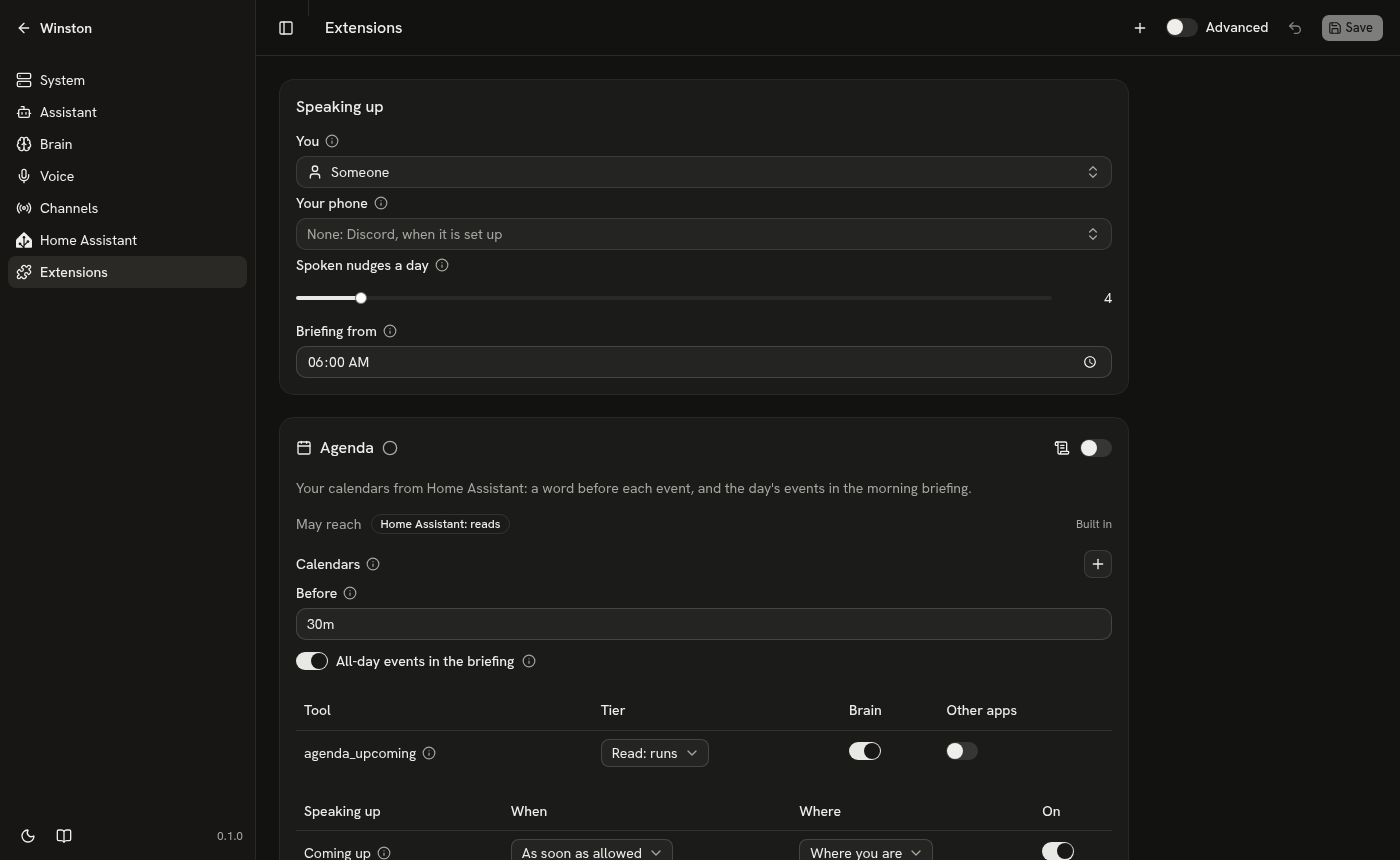
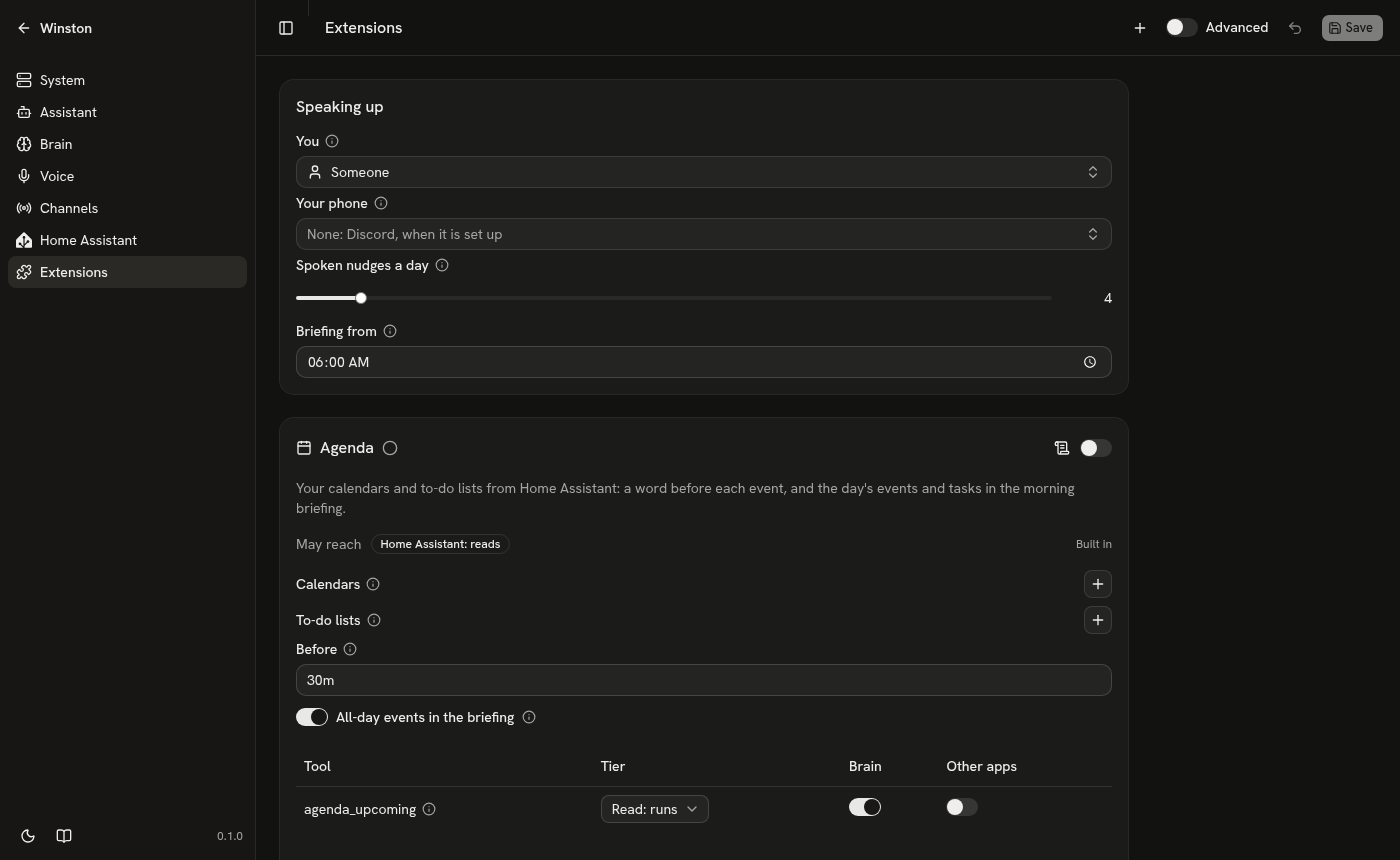
Agenda reads to-do lists: tasks with a due date, like events
Google Tasks are not in the Calendar API, though Google Calendar shows
them, so a task repeating every other day was never seen. Agenda now
reads the to-do lists picked on its card (todo.get_items, any list Home
Assistant has): an open task with a due date is read like an event at
its due time, one due on a day only like an all-day event, and one
overdue stays until it is ticked off. agenda_upcoming names them as
tasks, and the briefing includes those due today or overdue.

The Extensions screenshots are retaken for the new setting.

diff --git a/src/winston/extensions/agenda.py b/src/winston/extensions/agenda.py
@@ -2,20 +2,23 @@
 # [tool.winston]
 # id = "agenda"
 # name = "Agenda"
-# description = "Your calendars from Home Assistant: a word before each event, and the day's events in the morning briefing."
+# description = "Your calendars and to-do lists from Home Assistant: a word before each event, and the day's events and tasks in the morning briefing."
 # icon = "calendar"
 # api = 1
 # permissions = { home_assistant = "read" }
 # ///
 """Agenda: the calendars Home Assistant has (Google Calendar, CalDAV, a local one), read through its
-`calendar.get_events`, so Home Assistant handles accounts and repeating events.
+`calendar.get_events`, so Home Assistant handles accounts and repeating events, and the open tasks
+with a due date in its to-do lists (Google Tasks, a local list), through `todo.get_items`. A task is
+read like an event at its due time; one due on a day only is like an all-day event, and one overdue
+stays until it is done.
 
 Every 10 minutes it keeps the events from the start of today to 36 hours ahead. Two kinds:
 
 - "soon": each timed event, held until `before` its start and checked again then, so a moved or
   cancelled event is never said. Asked for (you put it in your calendar), so it comes through quiet
   hours and the daily limit.
-- "today": the day's events, for the morning briefing."""
+- "today": the day's events, and the tasks due today or overdue, for the morning briefing."""
 from __future__ import annotations
 
 from datetime import date, datetime, time, timedelta
@@ -29,6 +32,9 @@ AHEAD = timedelta(hours=36)
 class AgendaSettings(Settings):
     calendars: list[str] = Entity(domain="calendar", default=[],
                                   description="The calendars he reads. Picking one lets him read it, exposed or not.")
+    lists: list[str] = Entity(domain="todo", default=[], title="To-do lists",
+                              description="Lists whose open tasks with a due date he reads, like events at their "
+                                          "due time; due today or overdue, in the briefing.")
     before: timedelta = Duration("30m", description="How long before an event he mentions it.")
     all_day: bool = Field(True, title="All-day events in the briefing",
                           description="Name all-day events (birthdays, holidays) in the morning briefing.")
@@ -49,29 +55,45 @@ def _parse(value: str, zone) -> tuple[datetime, bool]:
     return (at if at.tzinfo else at.replace(tzinfo=zone)), False
 
 
-def _when(at: datetime, all_day: bool, now: datetime) -> str:
-    """"today 14:00", "tomorrow, all day", "Friday 16 October 09:30"."""
+def _when(at: datetime, all_day: bool, now: datetime, task: bool = False) -> str:
+    """"today 14:00", "tomorrow, all day", "Friday 16 October 09:30"; a task "today", "overdue since ..."."""
     day = "today" if at.date() == now.date() else "tomorrow" if at.date() == now.date() + timedelta(1) \
         else f"{at:%A} {at.day} {at:%B}"
-    return f"{day}, all day" if all_day else f"{day} {at:%H:%M}"
+    if task and at.date() < now.date():
+        return f"overdue since {day}"
+    return (day if task else f"{day}, all day") if all_day else f"{day} {at:%H:%M}"
+
+
+def _named(e: dict) -> dict:
+    return {"task" if e.get("task") else "event": e["summary"]}
 
 
 async def _events(ctx, start: datetime, end: datetime) -> list[dict]:
-    """Every picked calendar's events between start and end, soonest first."""
-    cals = ctx.settings.calendars
-    if not cals:
-        return []
-    answer = await ctx.ha.query("calendar", "get_events", target={"entity_id": cals},
-                                data={"start_date_time": start.isoformat(), "end_date_time": end.isoformat()})
-    zone = ctx.now().tzinfo
+    """Every picked calendar's events between start and end, and every picked list's open tasks due
+    before end (overdue ones too), soonest first."""
+    s, zone = ctx.settings, ctx.now().tzinfo
     out = []
-    for cal, found in (answer or {}).items():
-        for e in (found or {}).get("events") or []:
-            if not e.get("start") or not e.get("summary"):
-                continue
-            at, all_day = _parse(e["start"], zone)
-            out.append({"calendar": cal, "summary": e["summary"][:200], "start": at.isoformat(), "all_day": all_day,
-                        "location": (e.get("location") or "")[:200]})
+    if s.calendars:
+        answer = await ctx.ha.query("calendar", "get_events", target={"entity_id": s.calendars},
+                                    data={"start_date_time": start.isoformat(), "end_date_time": end.isoformat()})
+        for cal, found in (answer or {}).items():
+            for e in (found or {}).get("events") or []:
+                if not e.get("start") or not e.get("summary"):
+                    continue
+                at, all_day = _parse(e["start"], zone)
+                out.append({"calendar": cal, "summary": e["summary"][:200], "start": at.isoformat(),
+                            "all_day": all_day, "location": (e.get("location") or "")[:200]})
+    if s.lists:
+        answer = await ctx.ha.query("todo", "get_items", target={"entity_id": s.lists},
+                                    data={"status": ["needs_action"]})
+        for lst, found in (answer or {}).items():
+            for t in (found or {}).get("items") or []:
+                if not t.get("due") or not t.get("summary"):
+                    continue
+                at, all_day = _parse(t["due"], zone)
+                if at < end:
+                    out.append({"calendar": lst, "summary": t["summary"][:200], "start": at.isoformat(),
+                                "all_day": all_day, "location": "", "task": True})
     return sorted(out, key=lambda e: e["start"])
 
 
@@ -101,11 +123,12 @@ async def soon(ctx):
         if e["all_day"] or at <= now:
             continue
         minutes = max(1, round((at - now).total_seconds() / 60))
-        facts = {"event": e["summary"], "starts": _when(at, False, now), "in_minutes": minutes}
+        facts = {**_named(e), "starts": _when(at, False, now), "in_minutes": minutes}
         if e["location"]:
             facts["location"] = e["location"]
         out.append(Nudge(about=f"{e['calendar']}|{e['summary']}|{e['start']}",
-                         say=f"{e['summary']} starts in {minutes} minutes.", facts=facts,
+                         say=f"{e['summary']} {'is due' if e.get('task') else 'starts'} in {minutes} minutes.",
+                         facts=facts,
                          not_before=at - ctx.settings.before, expires=at))
     return out
 
@@ -113,44 +136,54 @@ async def soon(ctx):
 @ext.nudge("today", title="Today's events", deliver="briefing", outside=True)
 async def today(ctx):
     now = ctx.now()
-    events = [{"event": e["summary"], "when": "all day" if e["all_day"] else f"{at:%H:%M}",
-               **({"location": e["location"]} if e["location"] else {})}
-              for e, at in _kept(ctx)
-              if at.date() == now.date() and (e["all_day"] and ctx.settings.all_day or not e["all_day"] and at > now)]
-    if not events:
+    rows, heads = [], []
+    for e, at in _kept(ctx):
+        if e.get("task"):
+            if at.date() > now.date():                  # due later; one overdue stays until it is done
+                continue
+            when = _when(at, e["all_day"], now, task=True)
+            heads.append(f"{e['summary']}, {when}" if when.startswith("overdue") else e["summary"])
+        elif at.date() == now.date() and (ctx.settings.all_day if e["all_day"] else at > now):
+            when = "all day" if e["all_day"] else f"{at:%H:%M}"
+            heads.append(e["summary"] if e["all_day"] else f"{e['summary']} at {when}")
+        else:
+            continue
+        rows.append({**_named(e), "when": when, **({"location": e["location"]} if e["location"] else {})})
+    if not rows:
         return None
-    heads = [f"{e['event']} at {e['when']}" if e["when"] != "all day" else e["event"] for e in events[:4]]
-    return Nudge(about=f"today:{now.date().isoformat()}", say=f"On your calendar today: {'; '.join(heads)}."[:299],
-                 facts={"events": events})
+    return Nudge(about=f"today:{now.date().isoformat()}", say=f"On your calendar today: {'; '.join(heads[:4])}."[:299],
+                 facts={"events": rows})
 
 
 @ext.tool(tier="read")
 async def upcoming(ctx, days: int = 1) -> list[dict] | str:
-    """The user's calendar: events from the start of today for this many days, soonest first.
+    """The user's calendar and to-do lists: events from the start of today for this many days, and
+    tasks due by then or overdue, soonest first.
 
     Args:
         days: 1 for today, 2 for today and tomorrow, 7 for the week; at most 31.
     """
-    if not ctx.settings.calendars:
-        return "No calendar is picked on the Agenda card."
+    if not ctx.settings.calendars and not ctx.settings.lists:
+        return "No calendar or to-do list is picked on the Agenda card."
     now = ctx.now()
     start = _start_of(now.date(), now.tzinfo)
     found = await _events(ctx, start, start + timedelta(days=max(1, min(days, 31))))
     out = []
     for e in found:
         at = datetime.fromisoformat(e["start"]).astimezone(now.tzinfo)
-        out.append({"event": e["summary"], "when": _when(at, e["all_day"], now),
+        out.append({**_named(e), "when": _when(at, e["all_day"], now, e.get("task", False)),
                     **({"location": e["location"]} if e["location"] else {}),
-                    **({"past": True} if not e["all_day"] and at < now else {})})
+                    **({"past": True} if not e.get("task") and not e["all_day"] and at < now else {})})
     return out or "Nothing on the calendar."
 
 
 @ext.status
 async def status(ctx) -> str:
-    if not ctx.settings.calendars:
+    s = ctx.settings
+    if not s.calendars and not s.lists:
         return "No calendar picked"
     now = ctx.now()
     nxt = next(((e, at) for e, at in _kept(ctx) if not e["all_day"] and at > now), None)
-    n = len(ctx.settings.calendars)
-    head = f"{n} calendar{'s' if n > 1 else ''}"
+    head = ", ".join(f"{n} {word}{'s' if n > 1 else ''}"
+                     for n, word in ((len(s.calendars), "calendar"), (len(s.lists), "list")) if n)
     return f"{head}; next: {nxt[0]['summary']} {_when(nxt[1], False, now)}" if nxt else f"{head}; nothing in the next day"

diff --git a/src/winston/extensions/agenda_test.py b/src/winston/extensions/agenda_test.py
@@ -1,4 +1,4 @@
-"""Tests for Agenda: `winston ext test agenda`. Made-up events on the fake Home Assistant."""
+"""Tests for Agenda: `winston ext test agenda`. Made-up events and tasks on the fake Home Assistant."""
 from pathlib import Path
 
 from winston_sdk.testing import FakeClock, FakeHA, Harness
@@ -11,6 +11,14 @@ EVENTS = {"calendar.work": [
     {"start": "2026-10-12", "end": "2026-10-13", "summary": "Name day"},
     {"start": "2026-10-13T09:00:00+02:00", "end": "2026-10-13T10:00:00+02:00", "summary": "Standup"},
 ]}
+TASKS = {"todo.tasks": [
+    {"uid": "1", "summary": "Take the pill", "status": "needs_action", "due": "2026-10-12"},
+    {"uid": "2", "summary": "Return the parcel", "status": "needs_action", "due": "2026-10-10"},
+    {"uid": "3", "summary": "Pay the rent", "status": "needs_action", "due": "2026-10-12T11:00:00+02:00"},
+    {"uid": "4", "summary": "Book flights", "status": "needs_action", "due": "2026-10-15"},
+    {"uid": "5", "summary": "Someday, maybe", "status": "needs_action"},
+    {"uid": "6", "summary": "Water the plants", "status": "completed", "due": "2026-10-12"},
+]}
 
 
 def ha(events=EVENTS) -> FakeHA:
@@ -18,7 +26,12 @@ def ha(events=EVENTS) -> FakeHA:
         return {cal: {"events": [e for e in events.get(cal, [])
                                  if data["start_date_time"][:10] <= e["start"][:10] and e["start"] < data["end_date_time"]]}
                 for cal in target["entity_id"]}
-    return FakeHA(states={"calendar.work": "off"}, services={"calendar.get_events": get_events})
+
+    def get_items(data, target):
+        return {lst: {"items": [t for t in TASKS.get(lst, []) if t["status"] in data.get("status", [t["status"]])]}
+                for lst in target["entity_id"]}
+    return FakeHA(states={"calendar.work": "off", "todo.tasks": "5"},
+                  services={"calendar.get_events": get_events, "todo.get_items": get_items})
 
 
 def harness(at="2026-10-12T07:00:00", **settings) -> Harness:
@@ -96,4 +109,28 @@ async def test_nothing_picked():
     assert await h.check("soon") == [] and await h.check("today") == []
     assert "No calendar" in await h.tool("upcoming")
     assert await h.status() == "No calendar picked"
+    await h.close()
+
+
+async def test_tasks_with_a_due_date_are_read_like_events():
+    h = harness(lists=["todo.tasks"])
+    await h.run("read")
+    [n] = await h.check("today")
+    assert [e.get("event") or e.get("task") for e in n.facts["events"]] == \
+        ["Return the parcel", "Name day", "Take the pill", "Dentist", "Pay the rent", "Call with the bank"], n.facts
+    assert {"task": "Return the parcel", "when": "overdue since Saturday 10 October"} in n.facts["events"]
+    assert "Return the parcel, overdue since" in n.say and "Take the pill" in n.say, n.say
+    rent = next(x for x in await h.check("soon") if x.facts.get("task") == "Pay the rent")
+    assert rent.not_before.isoformat() == "2026-10-12T10:30:00+02:00" and "is due in" in rent.say, rent
+    week = await h.tool("upcoming", days=7)
+    assert {"task": "Book flights", "when": "Thursday 15 October"} in week, week
+    assert {"task": "Take the pill", "when": "today"} in week
+    assert not any("Someday" in str(r) or "plants" in str(r) for r in week), week   # no date; done
+    assert await h.status() == "1 calendar, 1 list; next: Dentist today 10:00"
+    await h.close()
+
+
+async def test_a_list_alone_is_enough():
+    h = harness(calendars=[], lists=["todo.tasks"])
+    assert [r["task"] for r in await h.tool("upcoming")] == ["Return the parcel", "Take the pill", "Pay the rent"]
     await h.close()

diff --git a/docs/plan.md b/docs/plan.md
@@ -320,7 +320,7 @@ Not in this track: Discord, which is a channel; the channel contract gets design
 - **Status 2026-10-01: Spotify, a fourth built-in, asked for during step 4** ([built-in extensions](built-in-extensions.md#spotify)). go-librespot 0.10.2 as a Spotify Connect receiver, its audio paced by a relay and played on the box through a new permission, `speakers` (`ctx.speakers`, the satellite's media player, 48 kHz FLAC), with tests (11). On the real box: Daft Punk played through the jack; a pause in the app now stops the box at once (it took 4 s, see decisions). Found on the way and fixed for every channel: a conversation keeps the extension tools it started with, so a channel starts a new one when they change (the box could not find `spotify_play`); the browser's "Winston online." is no longer put into the conversation; an extension's keys are read from `data/.env` when it starts. Next: speech-to-text hints from his library ("play some Daft Punk" was heard as "Dunk"); hear a pause, a resume and a skip on the box and time them; ask Aldin whether a follow-up (no wake word) should ignore Swedish, since the box answered household Swedish after a reply.
 - **Status 2026-10-11: Awareness, a fifth built-in** ([built-in extensions](built-in-extensions.md#awareness)). One nudge kind, "goodnight": after a busy day and 30+ minutes of evening silence, Winston says goodnight. No tools, no settings, reads the day's turns from winstond's API. Tests (4) beside it. Not yet checked: on the real box after a real evening.
 - **Status 2026-10-11: Agenda and Later, two more built-ins; News learns topics; a song can be queued** ([built-in extensions](built-in-extensions.md)). Agenda: Home Assistant's calendars (`calendar.get_events`), "Coming up" 30 minutes before each event (held until then and checked again, so a moved or cancelled one is never said), "Today's events" in the briefing, `agenda_upcoming`; 7 tests. Later: an action asked for now and run on a trigger (a time, leaving or arriving, an entity's state) by the exact tool call the brain chose, told when done or not; 6 tests. Both need two additions to the standard, each for any extension: the `tools` permission (`ctx.tools.list`, `ctx.tools.call`: the brain's own tools by its names and tiers, never a restricted one, every call in the tool-call log) and the diary through `memory` (`ctx.memory.diary`). News: a Music preset (off) and up to eight topics a day from memory, the diary and the artists in the picked music library; 17 tests. Spotify: `spotify_queue`; 14 tests. `tests/extensions_cases.py` passes with a new fixture that lists the brain's tools with their tiers, runs a Home Assistant tool through its MCP server and another extension's tool, is refused a restricted and an unknown one, finds its calls in the tool-call log, and reads the diary; `sdk/tests/sdk_cases.py` passes. `tests/extensions_brain.py` passes with the 27B (thinking off, the spoken prompt) on the fake Home Assistant, which now has a calendar: "what's on my calendar today?" and "and tomorrow?" call `agenda_upcoming` with 1 and 2 days and name only that day's events; "turn off the main room lights when I leave" calls `later_add` with `intent__HassTurnOff`, `{"name": "Main room lights"}` and `on: leave`, does nothing yet, and leaving turns them off through the MCP server. On the running instance: winstond restarted, Agenda, Later and Awareness switched on, and News learned six topics on its first run. Not yet: Google Calendar in Home Assistant (Agenda has no calendar to read), any of it by voice on the box, and `spotify_queue` with the brain (it would queue on the real player).
-- **Status 2026-10-16: Agenda reads Google Calendar.** Home Assistant's Google Calendar integration is set up (a published Google Cloud app, Calendar API on); six calendars picked on the Agenda card, week numbers left out; `agenda_upcoming` over 31 days names the coming holidays, and an empty week says so. Found on the way: an extension's `ha.query` refused `calendar.get_events` as "can change things" for up to ten minutes after the integration was added, since winstond's cached service listing had no calendar domain; fixed (a missing service reads the listing again), with a check in `tests/extensions_cases.py` that fails without the fix. It reaches the running instance at the next winstond restart. Not yet: "Coming up" said before a real event, and "Today's events" in a real briefing.
+- **Status 2026-10-16: Agenda reads Google Calendar.** Home Assistant's Google Calendar integration is set up (a published Google Cloud app, Calendar API on); six calendars picked on the Agenda card, week numbers left out; `agenda_upcoming` over 31 days names the coming holidays, and an empty week says so. Found on the way: an extension's `ha.query` refused `calendar.get_events` as "can change things" for up to ten minutes after the integration was added, since winstond's cached service listing had no calendar domain; fixed (a missing service reads the listing again), with a check in `tests/extensions_cases.py` that fails without the fix. It reaches the running instance at the next winstond restart. Agenda also reads to-do lists (`todo.get_items`): open tasks with a due date, read like events at their due time, a day-only one like an all-day event, an overdue one until it is ticked off; `agenda_upcoming` names them as tasks; 9 tests (2 new); the Extensions screenshots retaken. Google Tasks is connected in Home Assistant too, two lists picked; a task due today is named by `agenda_upcoming` and in the briefing kind's check. Not yet: "Coming up" said before a real event, and "Today's events" in a real briefing.
 - **Status 2026-10-12: web search, Ask Claude and watched sensors moved from the core onto the standard** ([built-in extensions](built-in-extensions.md)). Three built-ins: `web` (`web_search`, now Gemini's REST API through `ctx.http`, so `google-genai` left Winston's dependencies), `claude` (`claude_ask`, with the Claude Agent SDK in its own environment, so `claude-agent-sdk` left them too) and `sensors` (`sensors_get_readings`). The Tools page is gone (Memory's settings are on Assistant), and nothing in the core knows them by name. One addition to the SDK, `filler_after`, so "Let me look that up." is said as a search starts (an extension's filler waited a second); the box now gets it too. Config version 2 moves a `tools` section onto them. Tests beside each (web 4, claude 4, sensors 3). Typed through the brain on the real engines: `web_search` 1.3 s, `claude_ask` 4.4 s (0.04 USD, on the Claude Code login), `sensors_get_readings` 34 ms; the hop to an extension's process measured 2 to 4 ms. Extension tools now show on Talk and Turns with their extension's icon and name. Not checked: the filler by voice.
 - **Status 2026-10-16: a mix for a mood, from ListenBrainz** ([built-in extensions](built-in-extensions.md#spotify)). `spotify_mix`: the brain passes three to six of his artists that fit the mood, two of them (not the last ones used) seed LB Radio in easy mode, and each song is found on Spotify by title and artist, played and queued. Before: the brain played radio from one artist, and one artist started 6 of 22 radio plays in the tool-call log. Measured on the real services with two artists from his library: 22 of 25 songs found on Spotify in 1.2 s (LB 0.7 s, the searches 0.5 s at once); two misspelled artists first in line were skipped and the next two used (4.8 s, three LB calls). 15 tests. On the box by voice: "something chill" called `spotify_mix` with five of his artists, and 15 songs played and queued 1.5 s later; Aldin, "seems to work great". Then "drum and bass" went to `spotify_play` as a name and played a song called "Drum and Bass Father"; a mix now takes a genre as MusicBrainz's tag (easy mode, no similar tags): 19 of 25 found on Spotify, nearly all drum and bass, where medium mode's release tags were half other styles.
 - **Next (added 2026-10-16): Weather, a built-in for forecasts.** Today only current conditions are answered, by Home Assistant's "Check the weather" tool on the exposed weather entity; "tomorrow" or "this afternoon" falls back to web search. The extension calls `weather.get_forecasts` (hourly and daily) with `home_assistant = "read"`, which the standard already allows, so it needs no core code. **Accept:** "will it rain tomorrow?" and "what's it like this afternoon?" are answered from Home Assistant without a search, in checks against the fake Home Assistant and on the box.

diff --git a/docs/built-in-extensions.md b/docs/built-in-extensions.md
@@ -6,7 +6,7 @@ you switch them on, on the Extensions page or with `winston ext enable ID`.
 
 | Extension | Speaks up | His tools | Reaches |
 | --- | --- | --- | --- |
-| **Agenda** (`agenda`) | "Coming up": 30 minutes before each event; "Today's events" in the briefing | `agenda_upcoming` | Home Assistant (read: the calendars you pick) |
+| **Agenda** (`agenda`) | "Coming up": 30 minutes before each event or task with a due time; "Today's events" in the briefing | `agenda_upcoming` | Home Assistant (read: the calendars and to-do lists you pick) |
 | **Ask Claude** (`claude`) | Nothing | `claude_ask` | Claude (api.anthropic.com), through the Claude Code CLI |
 | **Awareness** (`awareness`) | "Goodnight": after a busy day, when the evening goes quiet | None | winstond (reads the day's turns) |
 | **Hevy** (`hevy`) | "Time to train": no workout for 3 days, when you are home; firmer from day 5 | `hevy_get_training` | api.hevyapp.com |
@@ -22,18 +22,21 @@ Each has its tests beside it (`winston ext test hevy`, on made-up answers and th
 
 ## Agenda
 
-Your calendars, read through Home Assistant, so any calendar it has works (Google Calendar, CalDAV, a
-local one) and it handles your accounts and repeating events. Pick the calendars on the card; picking
-one lets Agenda read it, exposed to the brain or not. Every 10 minutes it keeps the events from the
-start of today to 36 hours ahead.
+Your calendars and to-do lists, read through Home Assistant, so any it has works (Google Calendar,
+Google Tasks, CalDAV, a local one) and it handles your accounts and repeating events. Pick them on the
+card; picking one lets Agenda read it, exposed to the brain or not. Every 10 minutes it keeps the
+events from the start of today to 36 hours ahead, and the open tasks with a due date: a task is read
+like an event at its due time, one due on a day only like an all-day event, and one overdue stays
+until you tick it off.
 
 - **"Coming up"**: each timed event, `before` (30 minutes) its start. It is held until then and
   checked again right before it is said, so a moved or cancelled event is never said, and the minutes
   are counted when it is said. It is something you asked for, so it comes through quiet hours and the
   daily limit; set it to the phone or silent on the card if you would rather not.
 - **"Today's events"**: the day's events still to come, and all-day ones (switch those off on the
-  card), in the morning briefing.
-- **`agenda_upcoming`**: today, today and tomorrow, or up to 31 days ("what's on this week?").
+  card), with the tasks due today or overdue, in the morning briefing.
+- **`agenda_upcoming`**: today, today and tomorrow, or up to 31 days ("what's on this week?"), tasks
+  named as tasks.
 
 For Google Calendar, add Home Assistant's own Google Calendar integration. It needs a Google Cloud
 project with:
@@ -48,6 +51,11 @@ project with:
 
 Its Remote Calendar with Google's private iCal address needs no Google Cloud project, but reads it
 only once a day, too seldom for "in 30 minutes".
+
+Google Tasks are not in the Calendar API, though Google Calendar shows them: add Home Assistant's
+Google Tasks integration too, with the Tasks API enabled in the same project and the same client.
+Google gives a task's day but not its time, so its tasks reach the briefing and `agenda_upcoming`, never
+"Coming up"; for a word at a set hour, a reminder is the tool.
 
 ## Ask Claude
 

diff --git a/docs/decisions.md b/docs/decisions.md
@@ -313,3 +313,4 @@ One line per deviation from `WINSTON_PLAN.md`: date, what changed, why.
 - 2026-10-16: `quiet_after` holds only when the scene's name is all that was said. Why: a request that named a quiet scene and asked for music too ended once the scene ran, 5 of 5 times, and the music was never asked for.
 - 2026-10-12: llama-server's prompt cache in host RAM is capped at 2 GB (`--cache-ram 2048`, default 8 GB) in the llama.cpp preset. Why: it held 15.7 GB of RAM and 2.3 GB of swap, entries up to 5.9 GB, and the machine swapped; the conversation stays in slot 0 on the card and background calls keep to slot 1, so the cache held mostly one-off background prompts. After three hours of use the server held 3.7 GB. `--ctx-checkpoints` stays at its default of 32 until measured.
 - 2026-10-16: An extension's `ha.query` reads Home Assistant's service listing again when the service is not in the cached one, not only after ten minutes. Why: Google Calendar, added to Home Assistant while winstond ran, was refused to Agenda as "can change things" until the cached listing expired.
+- 2026-10-16: Agenda reads to-do lists as well as calendars: open tasks with a due date, as events at their due time, overdue ones until done. Why: Google Tasks are not in the Calendar API, though Google Calendar shows them, so a task repeating every other day was never seen; Home Assistant's to-do lists cover Google Tasks and any other list, and a task due on a day reads like an all-day event, so the kinds and the tool kept one path. Google gives a task's day, not its time, so its tasks never get "Coming up".
